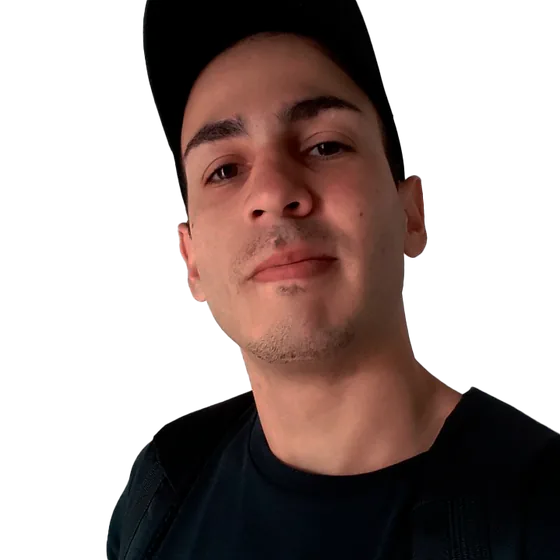
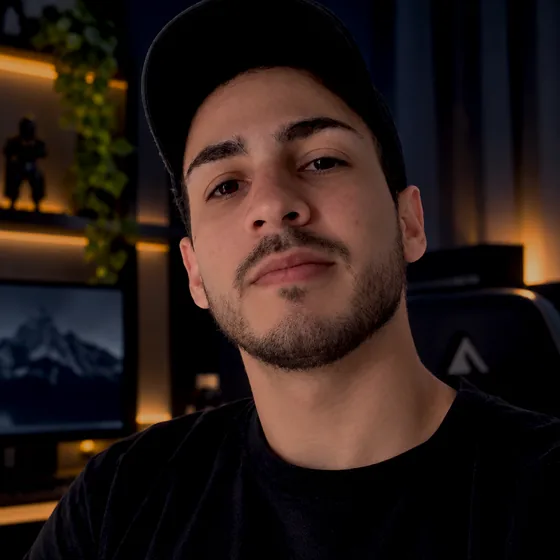
Atualiza foto do Marcelo no site

diff --git a/css/home.css b/css/home.css
@@ -52,7 +52,7 @@ body {
     content: ""; position: absolute; width: 22%; aspect-ratio: 1; top: 4%; right: 2%; border-radius: 9999px;
     background: var(--sol);
 }
-.hero-foto img { position: relative; z-index: 1; width: 100%; height: 100%; object-fit: contain; object-position: bottom; clip-path: inset(-20% 6% 0 6% round 0 0 2rem 2rem); }
+.hero-foto img { position: relative; z-index: 1; width: 100%; height: 100%; object-fit: cover; clip-path: inset(9% 6% 0 6% round 9999px 9999px 2rem 2rem); }
 .selo {
     position: absolute; z-index: 2; display: flex; align-items: center; gap: .5rem;
     background: #fff; color: var(--tinta); border-radius: 9999px; padding: .55rem .95rem;
